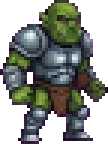
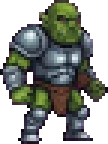
Unify grain: grid-drawn effects, bars, numbers, shadows; night grading for characters; clean magenta fringe
Claude-Session: https://claude.ai/code/session_01QcHRMwbfbXYPMxzwXNUobZ

diff --git a/src/game.js b/src/game.js
@@ -1,10 +1,10 @@
 import * as C from './config.js';
-import { drawAt, drawRig, size, SCALE } from './sprites.js';
+import { drawAt, drawRig, size, SCALE, PIX } from './sprites.js';
 import { unitRig, enemyRig } from './anim.js';
 import { PATH_LEN, posAt, SLOTS, renderBackground, drawTower, drawSlot, TOWER_TOP } from './map.js';
 
 const LIFT = 18; // высота полёта гаргулий
-import { FX, line, drawBoulder } from './fx.js';
+import { FX, line, drawBoulder, cell, pxEllipse } from './fx.js';
 
 export class Game {
   constructor(canvas, emit) {
@@ -390,12 +390,12 @@ export class Game {
   drawRange(x, y, r, color = '#fff3c0') {
     const ctx = this.ctx;
     ctx.fillStyle = 'rgba(255,240,180,0.07)';
-    ctx.beginPath(); ctx.arc(x, y, r, 0, Math.PI * 2); ctx.fill();
+    pxEllipse(ctx, x, y, r, r);
     ctx.fillStyle = color;
     const n = Math.floor(r * 0.9);
     for (let i = 0; i < n; i++) {
       const a = (i / n) * Math.PI * 2 + this.time * 0.3;
-      ctx.fillRect(Math.round(x + Math.cos(a) * r), Math.round(y + Math.sin(a) * r), 1, 1);
+      cell(ctx, x + Math.cos(a) * r, y + Math.sin(a) * r);
     }
   }
 
@@ -419,13 +419,13 @@ export class Game {
       const glow = 0.35 + 0.25 * Math.sin(this.time * 4 + t.i) + atk * 0.6;
       ctx.save(); ctx.globalCompositeOperation = 'lighter'; ctx.globalAlpha = Math.min(1, glow);
       const gx = t.x + t.face * w * 0.375, gy = ry - h * 0.9;
-      const g = ctx.createRadialGradient(gx, gy, 0, gx, gy, 3 + atk * 4);
-      g.addColorStop(0, 'rgba(255,246,208,1)'); g.addColorStop(1, 'rgba(255,190,60,0)');
-      ctx.fillStyle = g; ctx.beginPath(); ctx.arc(gx, gy, 3 + atk * 4, 0, Math.PI * 2); ctx.fill();
+      const R = 2.4 + atk * 2.4; // пиксельное свечение: золотой ореол и небольшое светлое ядро
+      ctx.fillStyle = 'rgba(255,180,50,0.35)'; pxEllipse(ctx, gx, gy, R, R);
+      ctx.fillStyle = 'rgba(255,236,170,0.6)'; pxEllipse(ctx, gx, gy, R * 0.45, R * 0.45);
       ctx.restore();
     }
     if (this.hasteT > 0 && Math.floor(this.time * 8) % 2) {
-      ctx.fillStyle = '#7af4ff'; ctx.fillRect(t.x - 13, ry - h * 0.6, 1, 3); ctx.fillRect(t.x + 13, ry - h * 0.4, 1, 3);
+      ctx.fillStyle = '#7af4ff'; cell(ctx, t.x - 13, ry - h * 0.6, PIX, 3); cell(ctx, t.x + 13, ry - h * 0.4, PIX, 3);
     }
   }
 
@@ -439,17 +439,17 @@ export class Game {
     if (!moving) o.rot = 0.12;
     const sw = e.h * 0.55;
     ctx.fillStyle = 'rgba(0,0,0,0.28)';
-    ctx.beginPath(); ctx.ellipse(e.x, e.y + 1, sw / 2, 2, 0, 0, Math.PI * 2); ctx.fill();
+    pxEllipse(ctx, e.x, e.y + 1, sw / 2, 2);
     const { w, h } = drawRig(ctx, e.type, e.x, e.y + 2 - lift, o, rig.parts);
     const top = e.y + 2 - lift - h + (o.dy || 0);
-    if (e.slowT > 0 || this.slowT > 0) { ctx.fillStyle = 'rgba(127,214,255,0.9)'; ctx.fillRect(e.x - w / 2, e.y, w, 1); }
+    if (e.slowT > 0 || this.slowT > 0) { ctx.fillStyle = 'rgba(127,214,255,0.9)'; cell(ctx, e.x - w / 2, e.y, w, PIX); }
     if (e.dotT > 0 && Math.random() < 0.15) this.fx.parts.push({ x: e.x + Math.random() * 8 - 4, y: top + h * 0.3, vx: 0, vy: -12, life: 0.4, max: 0.4, c: '#ffd86a', g: 0, s: 1 });
-    if (e.stunT > 0) { const a = this.time * 8; ctx.fillStyle = '#f3c843'; ctx.fillRect(e.x + Math.cos(a) * 5, top - 2, 1.5, 1.5); ctx.fillRect(e.x - Math.cos(a) * 5, top - 2, 1.5, 1.5); }
+    if (e.stunT > 0) { const a = this.time * 8; ctx.fillStyle = '#f3c843'; cell(ctx, e.x + Math.cos(a) * 5, top - 2, 2 * PIX, 2 * PIX); cell(ctx, e.x - Math.cos(a) * 5, top - 2, 2 * PIX, 2 * PIX); }
     if (e.hp < e.max || e.def.boss) {
       const bw = e.def.boss ? 26 : 13, bx = Math.round(e.x - bw / 2), by = Math.round(top - 4);
-      ctx.fillStyle = '#1a1420'; ctx.fillRect(bx - 1, by - 1, bw + 2, 4);
-      ctx.fillStyle = '#5a1414'; ctx.fillRect(bx, by, bw, 2);
-      ctx.fillStyle = e.def.boss ? '#f08a2a' : '#5fd04a'; ctx.fillRect(bx, by, Math.max(0, bw * e.hp / e.max), 2);
+      ctx.fillStyle = '#1a1420'; cell(ctx, bx - PIX, by - PIX, bw + 2 * PIX, 5 * PIX);
+      ctx.fillStyle = '#5a1414'; cell(ctx, bx, by, bw, 3 * PIX);
+      ctx.fillStyle = e.def.boss ? '#f08a2a' : '#5fd04a'; if (e.hp > 0) cell(ctx, bx, by, bw * e.hp / e.max, 3 * PIX);
     }
   }
 
@@ -465,14 +465,14 @@ export class Game {
     if (p.kind === 'arrow') {
       const a = p.ang || 0, cx = Math.cos(a), cy = Math.sin(a);
       line(ctx, p.x - cx * 5, p.y - cy * 5, p.x, p.y, '#8a5630');
-      ctx.fillStyle = '#ffffff'; ctx.fillRect(Math.round(p.x), Math.round(p.y), 1, 1);
-      ctx.fillStyle = '#e05a4a'; ctx.fillRect(Math.round(p.x - cx * 5), Math.round(p.y - cy * 5), 1, 1);
+      ctx.fillStyle = '#ffffff'; cell(ctx, p.x, p.y);
+      ctx.fillStyle = '#e05a4a'; cell(ctx, p.x - cx * 5, p.y - cy * 5); cell(ctx, p.x - cx * 4.4, p.y - cy * 4.4);
     } else if (p.kind === 'rock') {
       const k = Math.min(1, p.t / p.dur);
       // тень на земле: растёт и темнеет по мере приближения валуна
       const gy = p.gy0 + (p.ty + 3 - p.gy0) * k;
       ctx.fillStyle = `rgba(0,0,0,${0.08 + 0.22 * k})`;
-      ctx.beginPath(); ctx.ellipse(p.x, gy, 2 + 2 * k, 1 + 0.8 * k, 0, 0, Math.PI * 2); ctx.fill();
+      pxEllipse(ctx, p.x, gy, 2 + 2 * k, 1 + 0.8 * k);
       drawBoulder(ctx, p.x, p.y, p.t * 20 * p.spin); // валун кувыркается в полёте
     }
   }
@@ -484,11 +484,11 @@ export class Game {
     const x = m.x - 60 * (1 - k), y = m.y - 140 * (1 - k);
     for (let i = 1; i < 6; i++) {
       ctx.fillStyle = ['#f3c843', '#f08a2a', '#d0402e', '#7a1f1a', '#3e3c40'][i - 1];
-      ctx.fillRect(Math.round(x - i * 3), Math.round(y - i * 7), 3, 3);
+      cell(ctx, x - i * 3, y - i * 7, 3, 3);
     }
-    ctx.fillStyle = '#7a1f1a'; ctx.fillRect(Math.round(x) - 3, Math.round(y) - 3, 7, 7);
-    ctx.fillStyle = '#f08a2a'; ctx.fillRect(Math.round(x) - 2, Math.round(y) - 2, 5, 5);
-    ctx.fillStyle = '#fff3a0'; ctx.fillRect(Math.round(x) - 1, Math.round(y) - 1, 2, 2);
+    ctx.fillStyle = '#7a1f1a'; cell(ctx, x - 3.6, y - 3.6, 7.2, 7.2);
+    ctx.fillStyle = '#f08a2a'; cell(ctx, x - 2.4, y - 2.4, 4.8, 4.8);
+    ctx.fillStyle = '#fff3a0'; cell(ctx, x - 1.2, y - 1.2, 2.4, 2.4);
     this.drawRange(m.x, m.y, C.SPELLS.meteor.radius * k, '#f08a2a');
   }
 }

diff --git a/src/sprites.js b/src/sprites.js
@@ -29,6 +29,7 @@ export function loadAssets() {
     i.onload = () => {
       dims[n] = { w: i.width / UNIT, h: i.height / UNIT };
       imgs[n] = RAW.includes(n) ? i : pixelate(i, Math.round(dims[n].w / PIX), Math.round(dims[n].h / PIX));
+      if (!RAW.includes(n) && n !== 'tower') nightGrade(imgs[n]);
       resolve();
     };
     i.onerror = () => reject(new Error(`Не загрузилась картинка assets/${file}`));
@@ -65,6 +66,21 @@ function pixelate(img, gw, gh) {
   }
   ox.putImageData(dst, 0, 0);
   return out;
+}
+
+// Ночная тонировка персонажей под освещение фона: слишком светлые (белый жрец) приглушаются сильнее,
+// всем добавляется лёгкий холодный оттенок ночи. Контраст внутри картинки сохраняется.
+const NIGHT_TARGET = 78;
+function nightGrade(c) {
+  const x = c.getContext('2d'), d = x.getImageData(0, 0, c.width, c.height), p = d.data;
+  let sum = 0, n = 0;
+  for (let i = 0; i < p.length; i += 4) if (p[i + 3]) { sum += 0.299 * p[i] + 0.587 * p[i + 1] + 0.114 * p[i + 2]; n++; }
+  const k = Math.min(1, Math.max(0.62, Math.pow(NIGHT_TARGET / (sum / n), 0.6)));
+  for (let i = 0; i < p.length; i += 4) {
+    if (!p[i + 3]) continue;
+    p[i] = p[i] * k * 0.95; p[i + 1] = p[i + 1] * k * 0.97; p[i + 2] = Math.min(255, p[i + 2] * k * 1.04);
+  }
+  x.putImageData(d, 0, 0);
 }
 
 export function image(name) { return imgs[name]; }
@@ -155,22 +171,22 @@ const DIGITS = {
   '9': '111101111001111', '-': '000000111000000', '+': '000010111010000',
 };
 export function drawNumber(ctx, str, x, y, color) {
-  const s = String(str);
-  const totalW = s.length * 4 - 1;
-  let cx = Math.round(x - totalW / 2);
-  y = Math.round(y);
+  const s = String(str), P = PIX * 2; // пиксель шрифта — 2 клетки общей сетки
+  const totalW = (s.length * 4 - 1) * P;
+  let cx = Math.round((x - totalW / 2) / PIX) * PIX;
+  y = Math.round(y / PIX) * PIX;
   for (const ch of s) {
     const bits = DIGITS[ch];
     if (bits) {
       for (let i = 0; i < 15; i++) {
         if (bits[i] !== '1') continue;
-        const px = cx + (i % 3), py = y + Math.floor(i / 3);
+        const px = cx + (i % 3) * P, py = y + Math.floor(i / 3) * P;
         ctx.fillStyle = '#1a1420';
-        ctx.fillRect(px + 0.5, py + 0.5, 1, 1);
+        ctx.fillRect(px + PIX, py + PIX, P, P);
         ctx.fillStyle = color;
-        ctx.fillRect(px, py, 1, 1);
+        ctx.fillRect(px, py, P, P);
       }
     }
-    cx += 4;
+    cx += 4 * P;
   }
 }

diff --git a/src/fx.js b/src/fx.js
@@ -76,10 +76,10 @@ export class FX {
     for (const b of this.beams) {
       const a = b.life / 0.18;
       ctx.globalAlpha = a;
-      line(ctx, b.x1, b.y1, b.x2, b.y2, '#8a5a12', 3);
-      line(ctx, b.x1, b.y1, b.x2, b.y2, '#ffe08a', 1);
+      line(ctx, b.x1, b.y1, b.x2, b.y2, '#8a5a12', 4);
+      line(ctx, b.x1, b.y1, b.x2, b.y2, '#ffe08a', 2);
       ctx.globalAlpha = 1;
-      ctx.fillStyle = '#fff6d0'; ctx.fillRect(Math.round(b.x2) - 1, Math.round(b.y2) - 1, 3, 3);
+      ctx.fillStyle = '#fff6d0'; cell(ctx, b.x2 - 1.5, b.y2 - 1.5, 3, 3);
     }
     for (const p of this.parts) {
       if (p.fire) continue;
@@ -98,16 +98,34 @@ export class FX {
   }
 }
 
-// пиксельная линия (Брезенхем), толщина t
+// ---------- рисование на общей пиксельной сетке (клетка = PIX) ----------
+export const snap = v => Math.round(v / PIX) * PIX;
+// прямоугольник, выровненный по сетке (размер не меньше одной клетки)
+export function cell(ctx, x, y, w = PIX, h = PIX) {
+  const x0 = snap(x), y0 = snap(y);
+  ctx.fillRect(x0, y0, Math.max(PIX, snap(x + w) - x0), Math.max(PIX, snap(y + h) - y0));
+}
+// пиксельный овал (тени, круг дальности, свечение)
+export function pxEllipse(ctx, cx, cy, rx, ry) {
+  const R = Math.ceil(ry / PIX), y0 = snap(cy);
+  for (let j = -R; j <= R; j++) {
+    const k = 1 - Math.pow((j * PIX) / ry, 2);
+    if (k <= 0) continue;
+    const hw = rx * Math.sqrt(k), x0 = snap(cx - hw), x1 = snap(cx + hw);
+    ctx.fillRect(x0, y0 + j * PIX, Math.max(PIX, x1 - x0), PIX);
+  }
+}
+
+// пиксельная линия (Брезенхем) на сетке PIX, толщина t клеток
 export function line(ctx, x1, y1, x2, y2, color, t = 1) {
-  x1 = Math.round(x1); y1 = Math.round(y1); x2 = Math.round(x2); y2 = Math.round(y2);
+  x1 = Math.round(x1 / PIX); y1 = Math.round(y1 / PIX); x2 = Math.round(x2 / PIX); y2 = Math.round(y2 / PIX);
   const dx = Math.abs(x2 - x1), dy = -Math.abs(y2 - y1);
   const sx = x1 < x2 ? 1 : -1, sy = y1 < y2 ? 1 : -1;
   let err = dx + dy;
   ctx.fillStyle = color;
   const o = Math.floor(t / 2);
   for (let guard = 0; guard < 1000; guard++) {
-    ctx.fillRect(x1 - o, y1 - o, t, t);
+    ctx.fillRect((x1 - o) * PIX, (y1 - o) * PIX, t * PIX, t * PIX);
     if (x1 === x2 && y1 === y2) break;
     const e2 = 2 * err;
     if (e2 >= dy) { err += dy; x1 += sx; }

diff --git a/src/map.js b/src/map.js
@@ -1,4 +1,5 @@
-import { image, drawAt } from './sprites.js';
+import { image, drawAt, PIX } from './sprites.js';
+import { cell } from './fx.js';
 
 
 // Координаты сняты с картинки фона (1774×887) и переведены в логические 480×240
@@ -67,10 +68,10 @@ export function drawTower(ctx, x, y, level, highlight) {
   // уровень — золотые щитки на кладке
   for (let l = 0; l < level - 1; l++) {
     const bx = x - 5 + l * 7, by = y - 20;
-    ctx.fillStyle = '#2a1a0a'; ctx.fillRect(bx - 0.5, by - 0.5, 5, 6);
-    ctx.fillStyle = '#f3c843'; ctx.fillRect(bx, by, 4, 4);
-    ctx.fillStyle = '#b8862a'; ctx.fillRect(bx, by + 4, 4, 1);
-    ctx.fillStyle = '#fff3a0'; ctx.fillRect(bx, by, 2, 1);
+    ctx.fillStyle = '#2a1a0a'; cell(ctx, bx - PIX, by - PIX, 4.8 + 2 * PIX, 6);
+    ctx.fillStyle = '#f3c843'; cell(ctx, bx, by, 4.8, 3.6);
+    ctx.fillStyle = '#b8862a'; cell(ctx, bx, by + 3.6, 4.8, 1.2);
+    ctx.fillStyle = '#fff3a0'; cell(ctx, bx, by, 2.4, PIX);
   }
 }
 
@@ -79,7 +80,7 @@ export function drawSlot(ctx, x, top, hover, t) {
   const a = hover ? 1 : 0.5 + 0.35 * Math.sin(t * 3);
   const y = top - 7 + Math.sin(t * 2.5) * 1.2;
   ctx.fillStyle = `rgba(40,24,6,${a})`;
-  ctx.fillRect(x - 4.5, y - 1.5, 9, 3); ctx.fillRect(x - 1.5, y - 4.5, 3, 9);
+  cell(ctx, x - 4.8, y - 1.8, 9.6, 3.6); cell(ctx, x - 1.8, y - 4.8, 3.6, 9.6);
   ctx.fillStyle = `rgba(255,214,90,${a})`;
-  ctx.fillRect(x - 3.5, y - 0.75, 7, 1.5); ctx.fillRect(x - 0.75, y - 3.5, 1.5, 7);
+  cell(ctx, x - 3.6, y - 0.6, 7.2, 1.2); cell(ctx, x - 0.6, y - 3.6, 1.2, 7.2);
 }

diff --git a/CLAUDE.md b/CLAUDE.md
@@ -22,7 +22,10 @@
 - `src/map.js` — маршрут `PATH` и места `SLOTS` (координаты сняты с `assets/bg_hd.jpg` 1774×887), башня, маркер пустой башни.
 - `src/sprites.js` — загрузка картинок, отражение, отрисовка; спрайты хранятся в 3× размере (`RES`), `ZOOM` — масштаб на карте.
   При загрузке персонажи и башня ужимаются до сетки `PIX` (0.6 логической единицы — «пиксель» фона), чтобы всё было одного зерна.
-  Огонь и частицы в `fx.js` рисуются на той же сетке.
+  Огонь, частицы, стрелы, луч, метеор, тени, полоски здоровья, цифры урона, круг дальности и плюс над пустой башней
+  тоже рисуются на этой сетке: помощники `cell`, `pxEllipse`, `line` в `fx.js`. Гладкие градиенты и `arc` не использовать.
+  Персонажам при загрузке даётся ночная тонировка (`nightGrade` в `sprites.js`): слишком светлых приглушает под тёмный фон.
+  С картинок вычищена розовая кайма от фона #FF00FF; новые картинки надо чистить так же.
 - `src/anim.js` — «кукольная» анимация: спрайт режется на части (ноги, тело, крылья).
 - `src/game.js` — цикл, волны, бой, снаряды, отрисовка. `src/fx.js` — частицы, пиксельный огонь, цифры урона.
 - `src/ui.js` — интерфейс, ввод, экраны, автоигра для проверки (`?autoplay&speed=8`, `&nobuild`).
